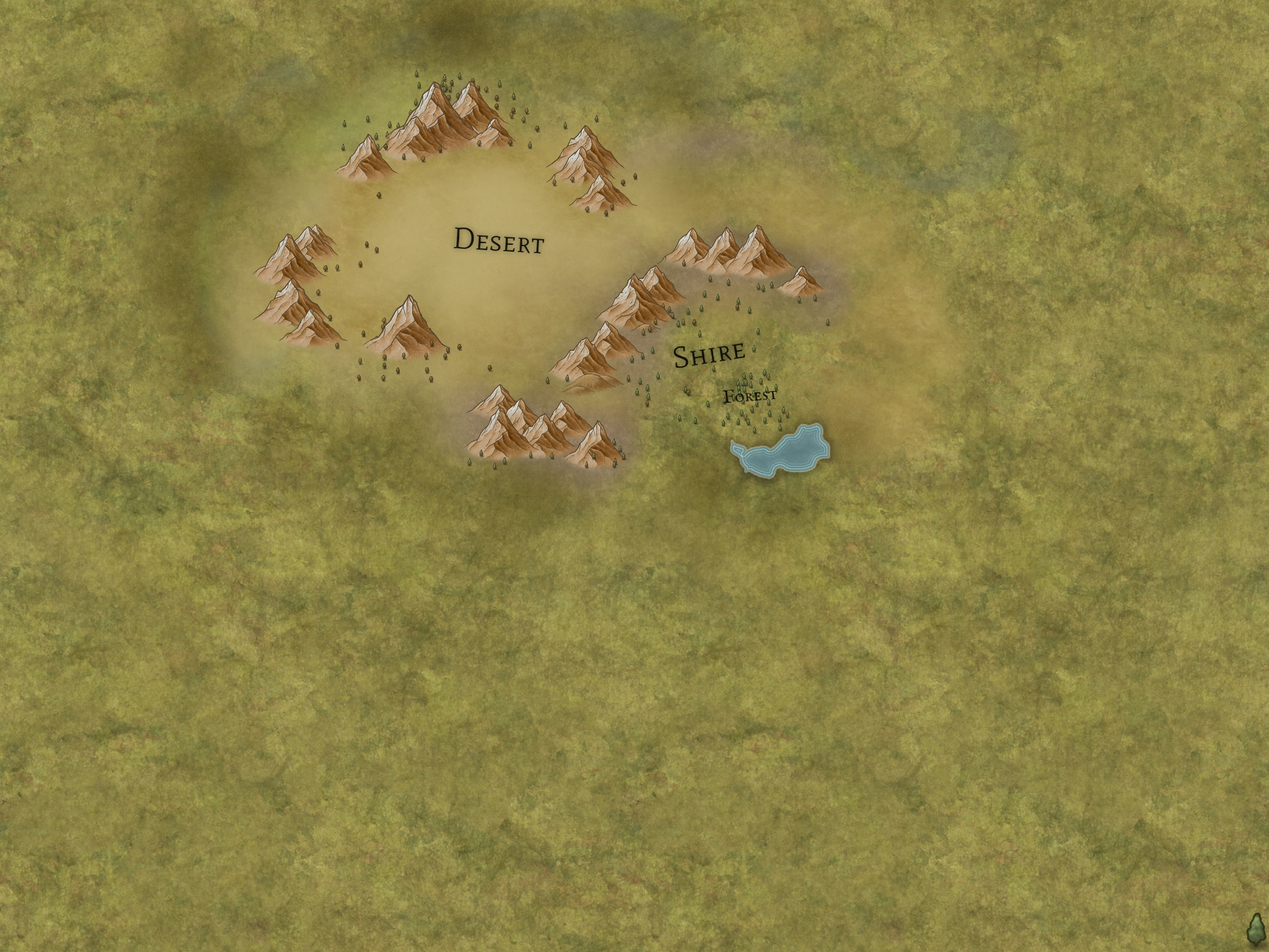
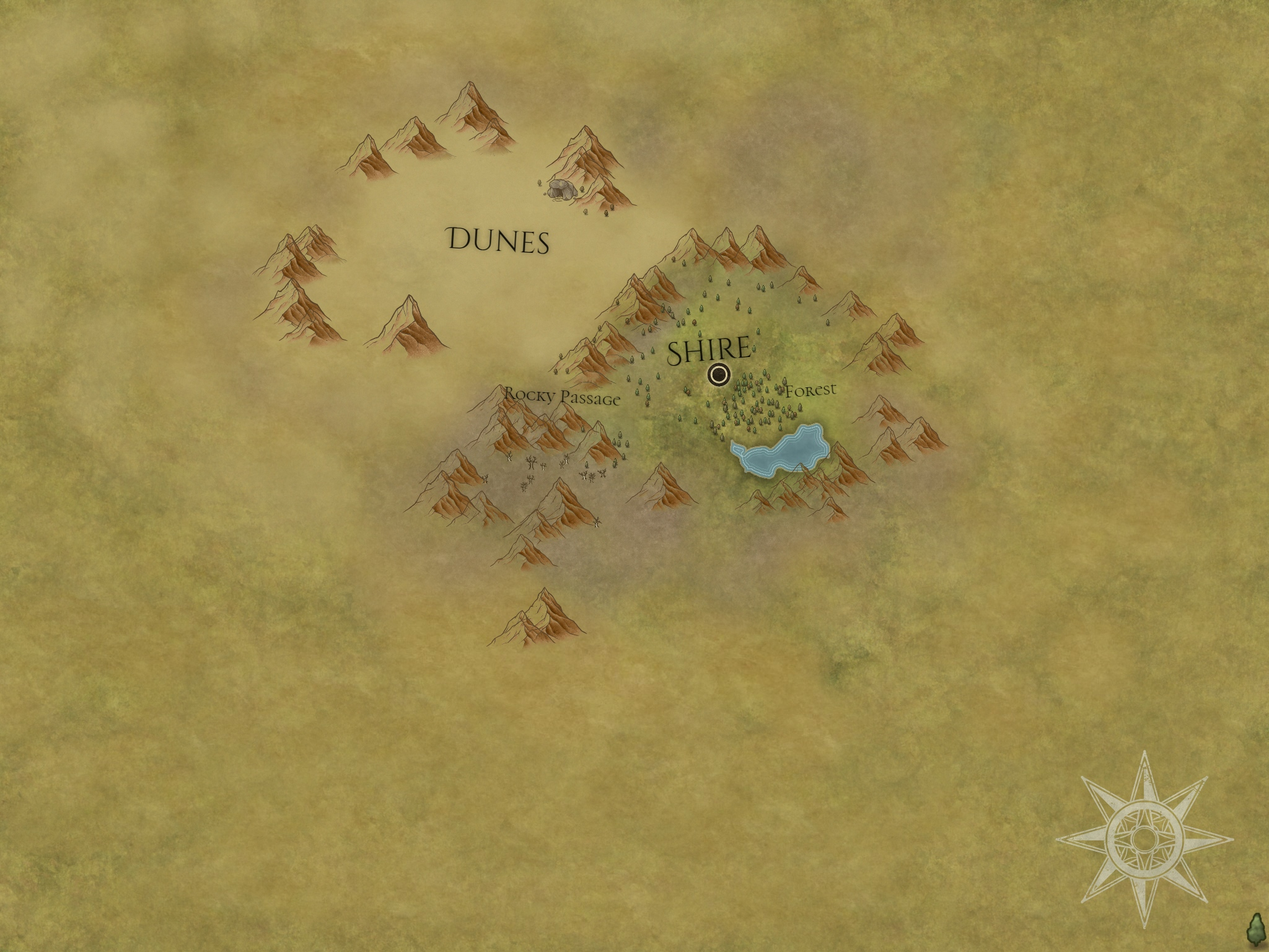
Worked on inkarnate, select locations

diff --git a/bundle.js b/bundle.js
@@ -473,7 +473,8 @@ var rpg = (function () {
             //[[700, 346], [2048 - 500, 1536 - 600], 'Desert'],
             [[707, 346], [900, 434], 'Desert'],
             [[1071, 538], [1222, 609], 'Shire'],
-            [[1165, 620], [1260, 660], 'Forest'],
+            [[1257, 613], [1560, 646], 'Forest'],
+            [[809, 616], [1007, 663], 'Rocky Passage'],
         ]
     };
     const map_size = [2048, 1536];
@@ -481,6 +482,7 @@ var rpg = (function () {
     class world_map {
         static instance;
         popup;
+        selectedLabel;
         map = green;
         info;
         dragging = false;
@@ -489,6 +491,7 @@ var rpg = (function () {
         static pos = [0, 0];
         drag_start = [0, 0];
         drag = [0, 0];
+        x_text;
         onmouseup;
         onmousemove;
         static request_popup() {
@@ -518,6 +521,7 @@ var rpg = (function () {
 				</x-world-map-inner>
 			</x-world-map>
 		`;
+            this.x_text = this.popup.content_inner.querySelector('x-text');
             this.world_map = this.popup.content_inner.querySelector('x-world-map');
             this.world_map_inner = this.popup.content_inner.querySelector('x-world-map-inner');
             /*this.world_map.ontouchmove = (e) => {
@@ -607,16 +611,29 @@ var rpg = (function () {
             this.el.style.backgroundPositionX = `-${min[0]}px`;
             this.el.style.backgroundPositionY = `-${min[1]}px`;
             this.el.style.backgroundSize = `${map_size_scaled[0]}px ${map_size_scaled[1]}px`;
+            this.el.onclick = () => {
+                this.select();
+                this.friend.selectedLabel?.unselect();
+                this.friend.selectedLabel = this;
+                this.friend.x_text.innerHTML = `Selected: ${this.tuple[2]}`;
+            };
             this.el.onmouseover = () => {
-                this.el.style.backgroundImage = `url(img/map_hover.jpg)`;
+                this.select();
             };
             this.el.onmouseout = () => {
-                this.el.style.backgroundImage = ``;
+                if (this.friend.selectedLabel != this)
+                    this.unselect();
             };
             this.attach();
         }
         attach() {
             this.friend.world_map.append(this.el);
+        }
+        select() {
+            this.el.style.backgroundImage = `url(img/map_hover.jpg)`;
+        }
+        unselect() {
+            this.el.style.backgroundImage = ``;
         }
     }
 

diff --git a/src/world map.ts b/src/world map.ts
@@ -17,7 +17,8 @@ var green: map = {
 		//[[700, 346], [2048 - 500, 1536 - 600], 'Desert'],
 		[[707, 346], [900, 434], 'Desert'],
 		[[1071, 538], [1222, 609], 'Shire'],
-		[[1165, 620], [1260, 660], 'Forest'],
+		[[1257, 613], [1560, 646], 'Forest'],
+		[[809, 616], [1007, 663], 'Rocky Passage'],
 	]
 }
 
@@ -28,6 +29,7 @@ const map_division = 2;
 class world_map {
 	static instance?: world_map
 	popup: popup;
+	selectedLabel?: label
 	map: map = green
 	info
 	dragging = false
@@ -36,6 +38,7 @@ class world_map {
 	static pos: vec2 = [0, 0]
 	drag_start: vec2 = [0, 0]
 	drag: vec2 = [0, 0]
+	x_text
 	onmouseup
 	onmousemove
 	static request_popup() {
@@ -49,7 +52,7 @@ class world_map {
 	}
 	constructor() {
 		console.log(world_map.pos);
-		
+
 		this.popup = new popup({
 			class: 'world-map',
 			title: 'World Map',
@@ -66,6 +69,7 @@ class world_map {
 				</x-world-map-inner>
 			</x-world-map>
 		`;
+		this.x_text = this.popup.content_inner.querySelector('x-text');
 		this.world_map = this.popup.content_inner.querySelector('x-world-map');
 		this.world_map_inner = this.popup.content_inner.querySelector('x-world-map-inner');
 		/*this.world_map.ontouchmove = (e) => {
@@ -119,11 +123,11 @@ class world_map {
 		}
 	}
 	reposition() {
-		
+
 		const el = this.world_map;
 		const maxWidth = Math.max(el.clientWidth, el.scrollWidth, el.offsetWidth) - el.clientWidth;
 		const maxHeight = Math.max(el.clientHeight, el.scrollHeight, el.offsetHeight) - el.clientHeight;
-		
+
 		world_map.pos = pts.clamp(world_map.pos, [0, 0], [maxWidth, maxHeight]);
 		console.log('clamp', world_map.pos);
 
@@ -161,16 +165,30 @@ class label {
 		this.el.style.backgroundPositionY = `-${min[1]}px`;
 		this.el.style.backgroundSize = `${map_size_scaled[0]}px ${map_size_scaled[1]}px`;
 
+		this.el.onclick = () => {
+			this.select();
+			this.friend.selectedLabel?.unselect();
+			this.friend.selectedLabel = this;
+			this.friend.x_text.innerHTML = `Selected: ${this.tuple[2]}`;
+		}
 		this.el.onmouseover = () => {
-			this.el.style.backgroundImage = `url(img/map_hover.jpg)`;
+			this.select();
 		}
 		this.el.onmouseout = () => {
-			this.el.style.backgroundImage = ``;
+			if (this.friend.selectedLabel != this)
+				this.unselect();
 		}
 		this.attach();
 	}
 	attach() {
 		this.friend.world_map.append(this.el);
+	}
+	select() {
+		this.el.style.backgroundImage = `url(img/map_hover.jpg)`;
+	}
+	unselect() {
+		this.el.style.backgroundImage = ``;
+
 	}
 }
 

diff --git a/js/world map.js b/js/world map.js
@@ -10,7 +10,8 @@ var green = {
         //[[700, 346], [2048 - 500, 1536 - 600], 'Desert'],
         [[707, 346], [900, 434], 'Desert'],
         [[1071, 538], [1222, 609], 'Shire'],
-        [[1165, 620], [1260, 660], 'Forest'],
+        [[1257, 613], [1560, 646], 'Forest'],
+        [[809, 616], [1007, 663], 'Rocky Passage'],
     ]
 };
 const map_size = [2048, 1536];
@@ -18,6 +19,7 @@ const map_division = 2;
 class world_map {
     static instance;
     popup;
+    selectedLabel;
     map = green;
     info;
     dragging = false;
@@ -26,6 +28,7 @@ class world_map {
     static pos = [0, 0];
     drag_start = [0, 0];
     drag = [0, 0];
+    x_text;
     onmouseup;
     onmousemove;
     static request_popup() {
@@ -55,6 +58,7 @@ class world_map {
 				</x-world-map-inner>
 			</x-world-map>
 		`;
+        this.x_text = this.popup.content_inner.querySelector('x-text');
         this.world_map = this.popup.content_inner.querySelector('x-world-map');
         this.world_map_inner = this.popup.content_inner.querySelector('x-world-map-inner');
         /*this.world_map.ontouchmove = (e) => {
@@ -144,16 +148,29 @@ class label {
         this.el.style.backgroundPositionX = `-${min[0]}px`;
         this.el.style.backgroundPositionY = `-${min[1]}px`;
         this.el.style.backgroundSize = `${map_size_scaled[0]}px ${map_size_scaled[1]}px`;
+        this.el.onclick = () => {
+            this.select();
+            this.friend.selectedLabel?.unselect();
+            this.friend.selectedLabel = this;
+            this.friend.x_text.innerHTML = `Selected: ${this.tuple[2]}`;
+        };
         this.el.onmouseover = () => {
-            this.el.style.backgroundImage = `url(img/map_hover.jpg)`;
+            this.select();
         };
         this.el.onmouseout = () => {
-            this.el.style.backgroundImage = ``;
+            if (this.friend.selectedLabel != this)
+                this.unselect();
         };
         this.attach();
     }
     attach() {
         this.friend.world_map.append(this.el);
+    }
+    select() {
+        this.el.style.backgroundImage = `url(img/map_hover.jpg)`;
+    }
+    unselect() {
+        this.el.style.backgroundImage = ``;
     }
 }
 export default world_map;
